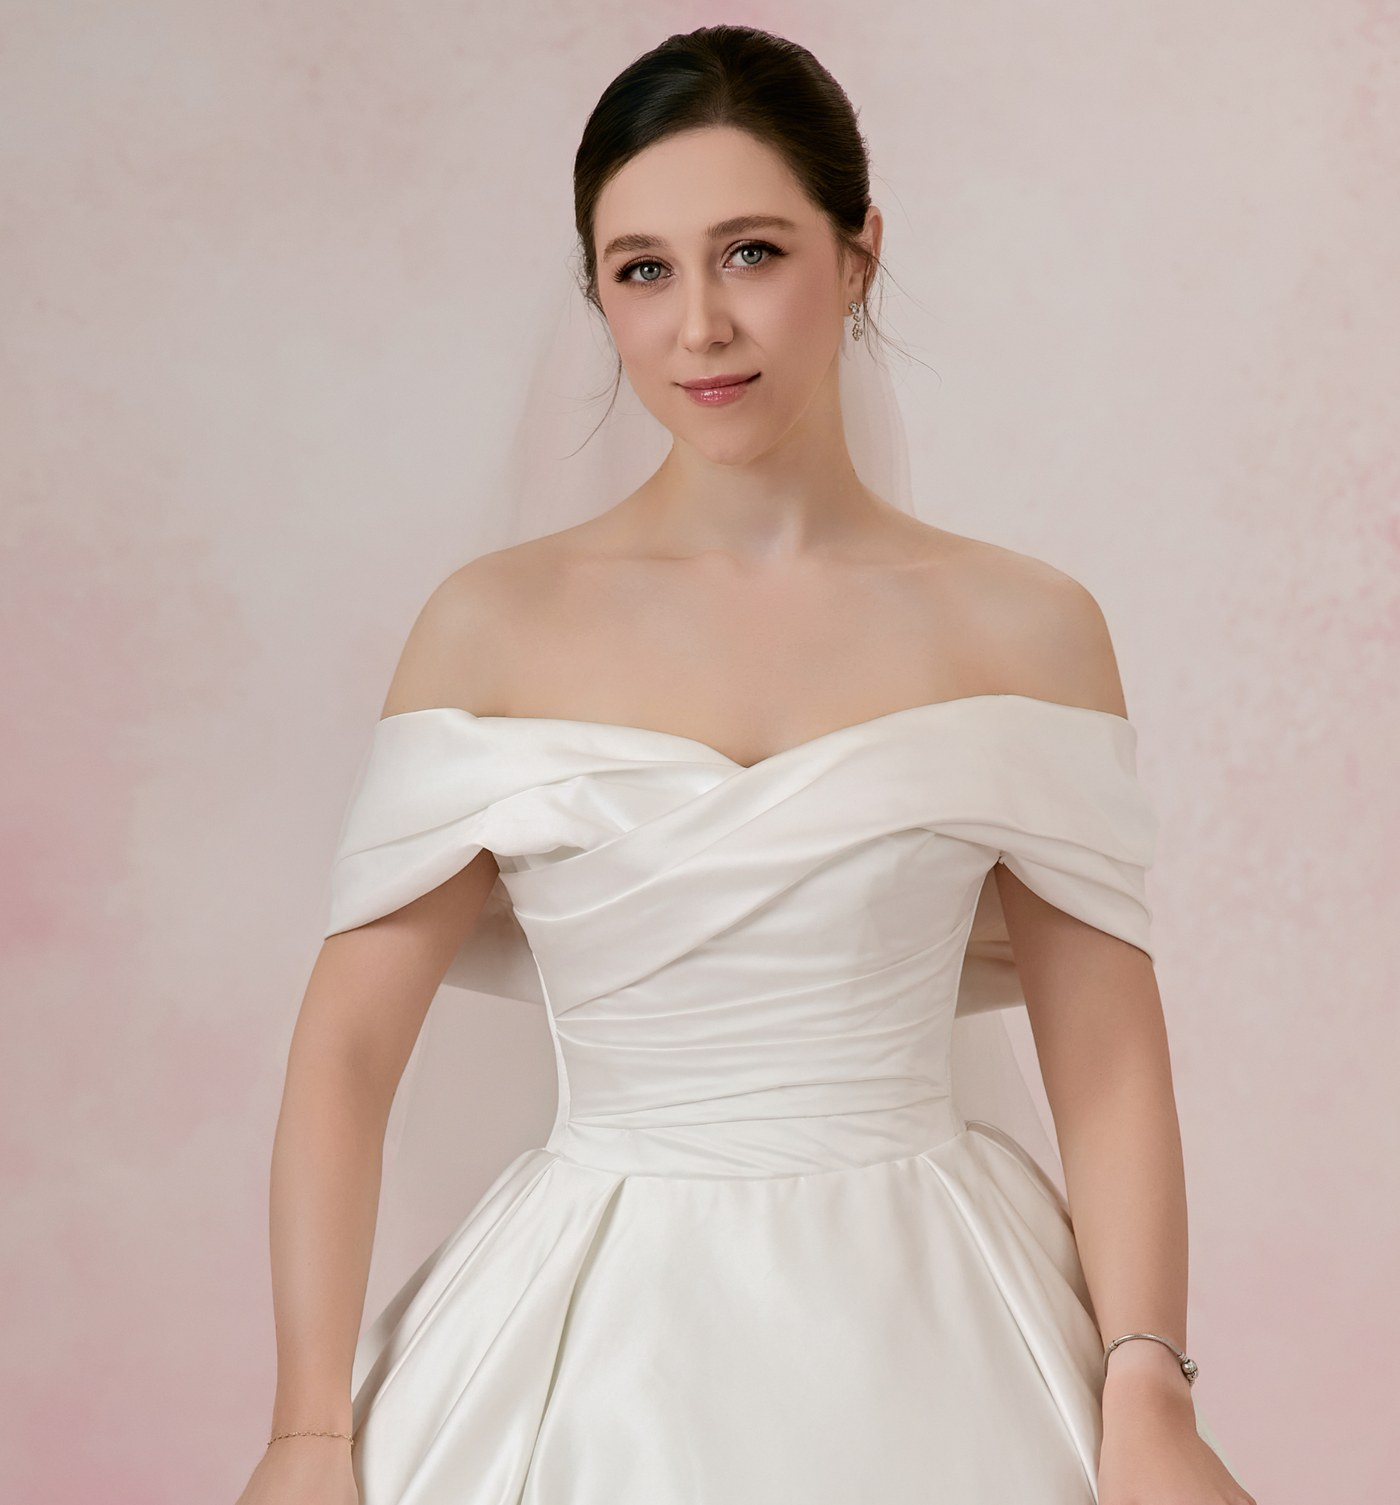
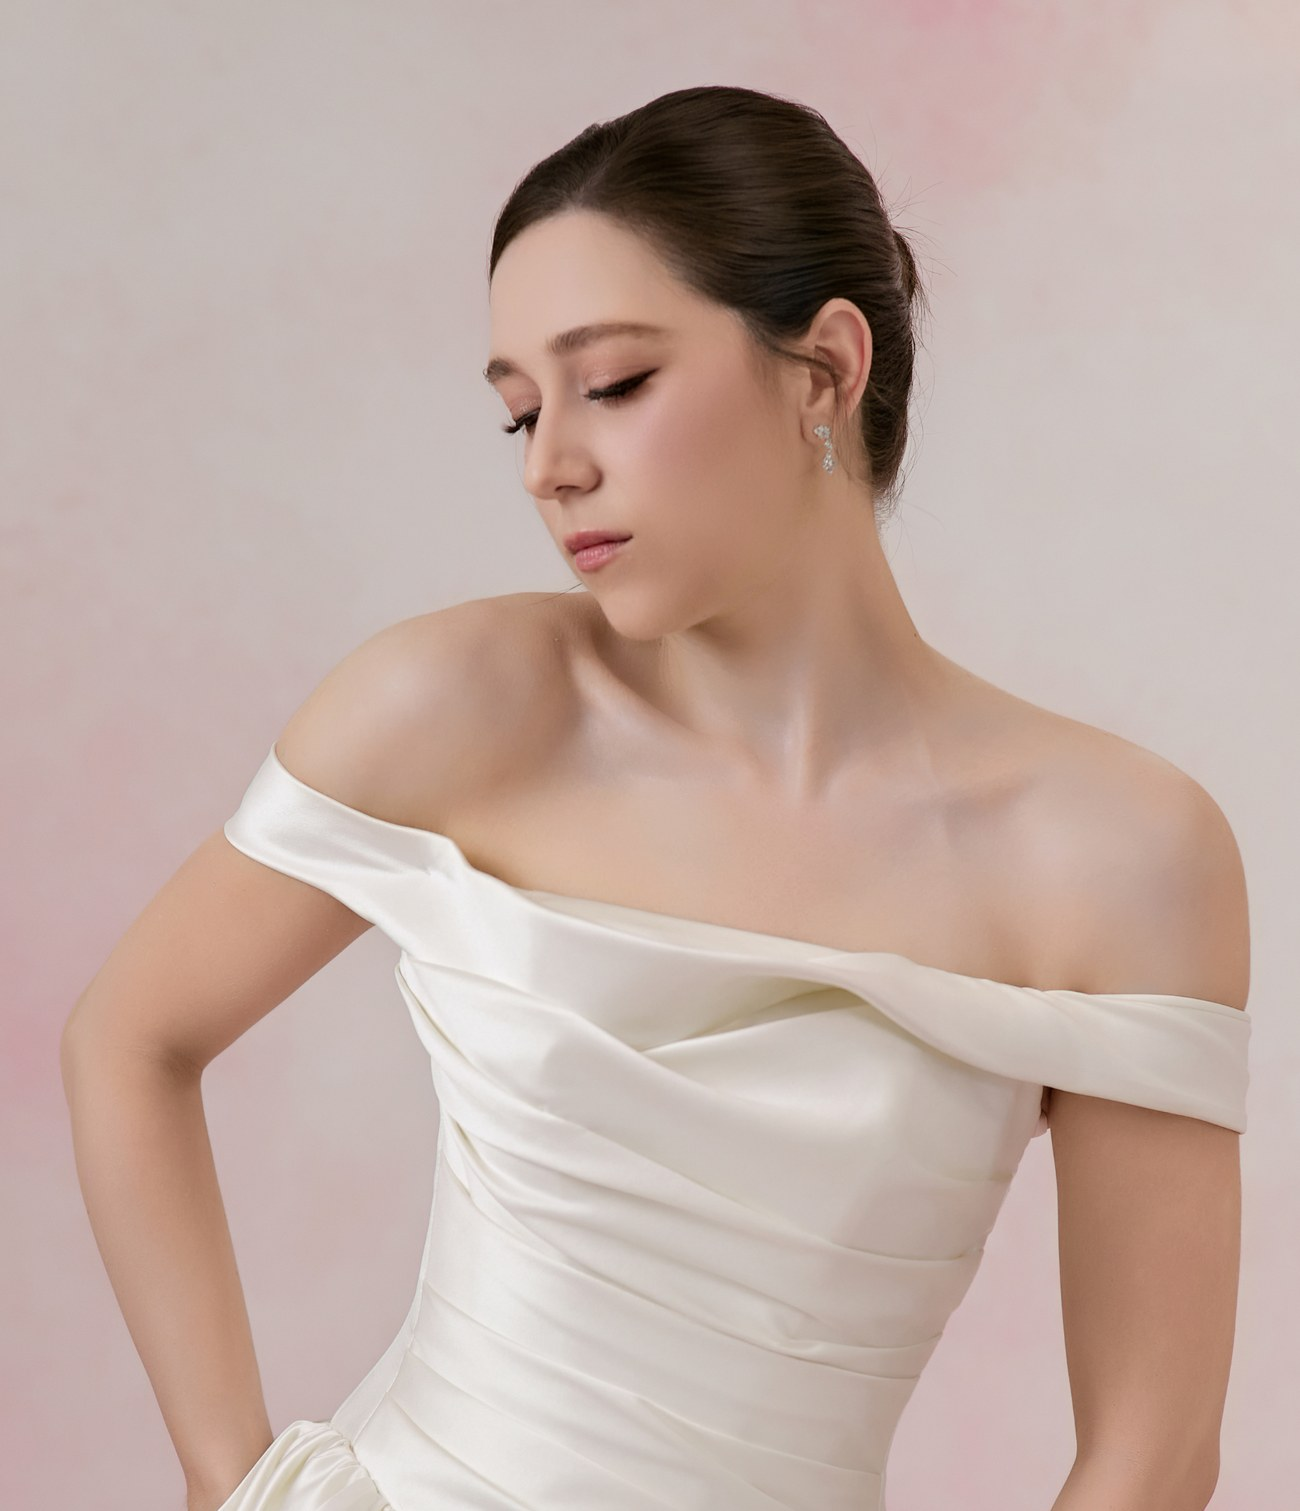
Doi anh dau trang theo anh chi Linh chon; giu khung cat o phan tren cho khong mat mat

diff --git a/cach-do-so-do.html b/cach-do-so-do.html
@@ -138,7 +138,7 @@ src="https://www.facebook.com/tr?id=1358640082651240&ev=PageView&noscript=1"
     border:1px solid var(--hair);border-radius:999px;padding:.42em 1em;
   }
   .hero-anh{position:relative}
-  .hero-anh img{width:100%;height:clamp(280px,42vw,460px);object-fit:cover}
+  .hero-anh img{width:100%;height:clamp(280px,42vw,460px);object-fit:cover;object-position:center 12%}
   .hero-anh .cap{
     font-family:var(--display);font-style:italic;font-size:1.15rem;color:var(--ink);margin-top:12px;line-height:1.3;
   }
@@ -429,7 +429,7 @@ src="https://www.facebook.com/tr?id=1358640082651240&ev=PageView&noscript=1"
       </div>
     </div>
     <div class="hero-anh">
-      <img src="anh/do-so-do/vay-phi-hero.jpg" alt="Cô dâu mặc váy cưới chất phi của Dolinhanh Bridal" loading="eager" width="1400" height="1505">
+      <img src="anh/do-so-do/vay-phi-hero.jpg" alt="Cô dâu mặc váy cưới chất phi của Dolinhanh Bridal" loading="eager" width="1300" height="1511">
       <p class="cap"><span class="vi">Số đo chuẩn = váy ôm đúng chỗ cần ôm</span><span class="en">Good measurements = a gown that fits where it should</span></p>
     </div>
   </div>
